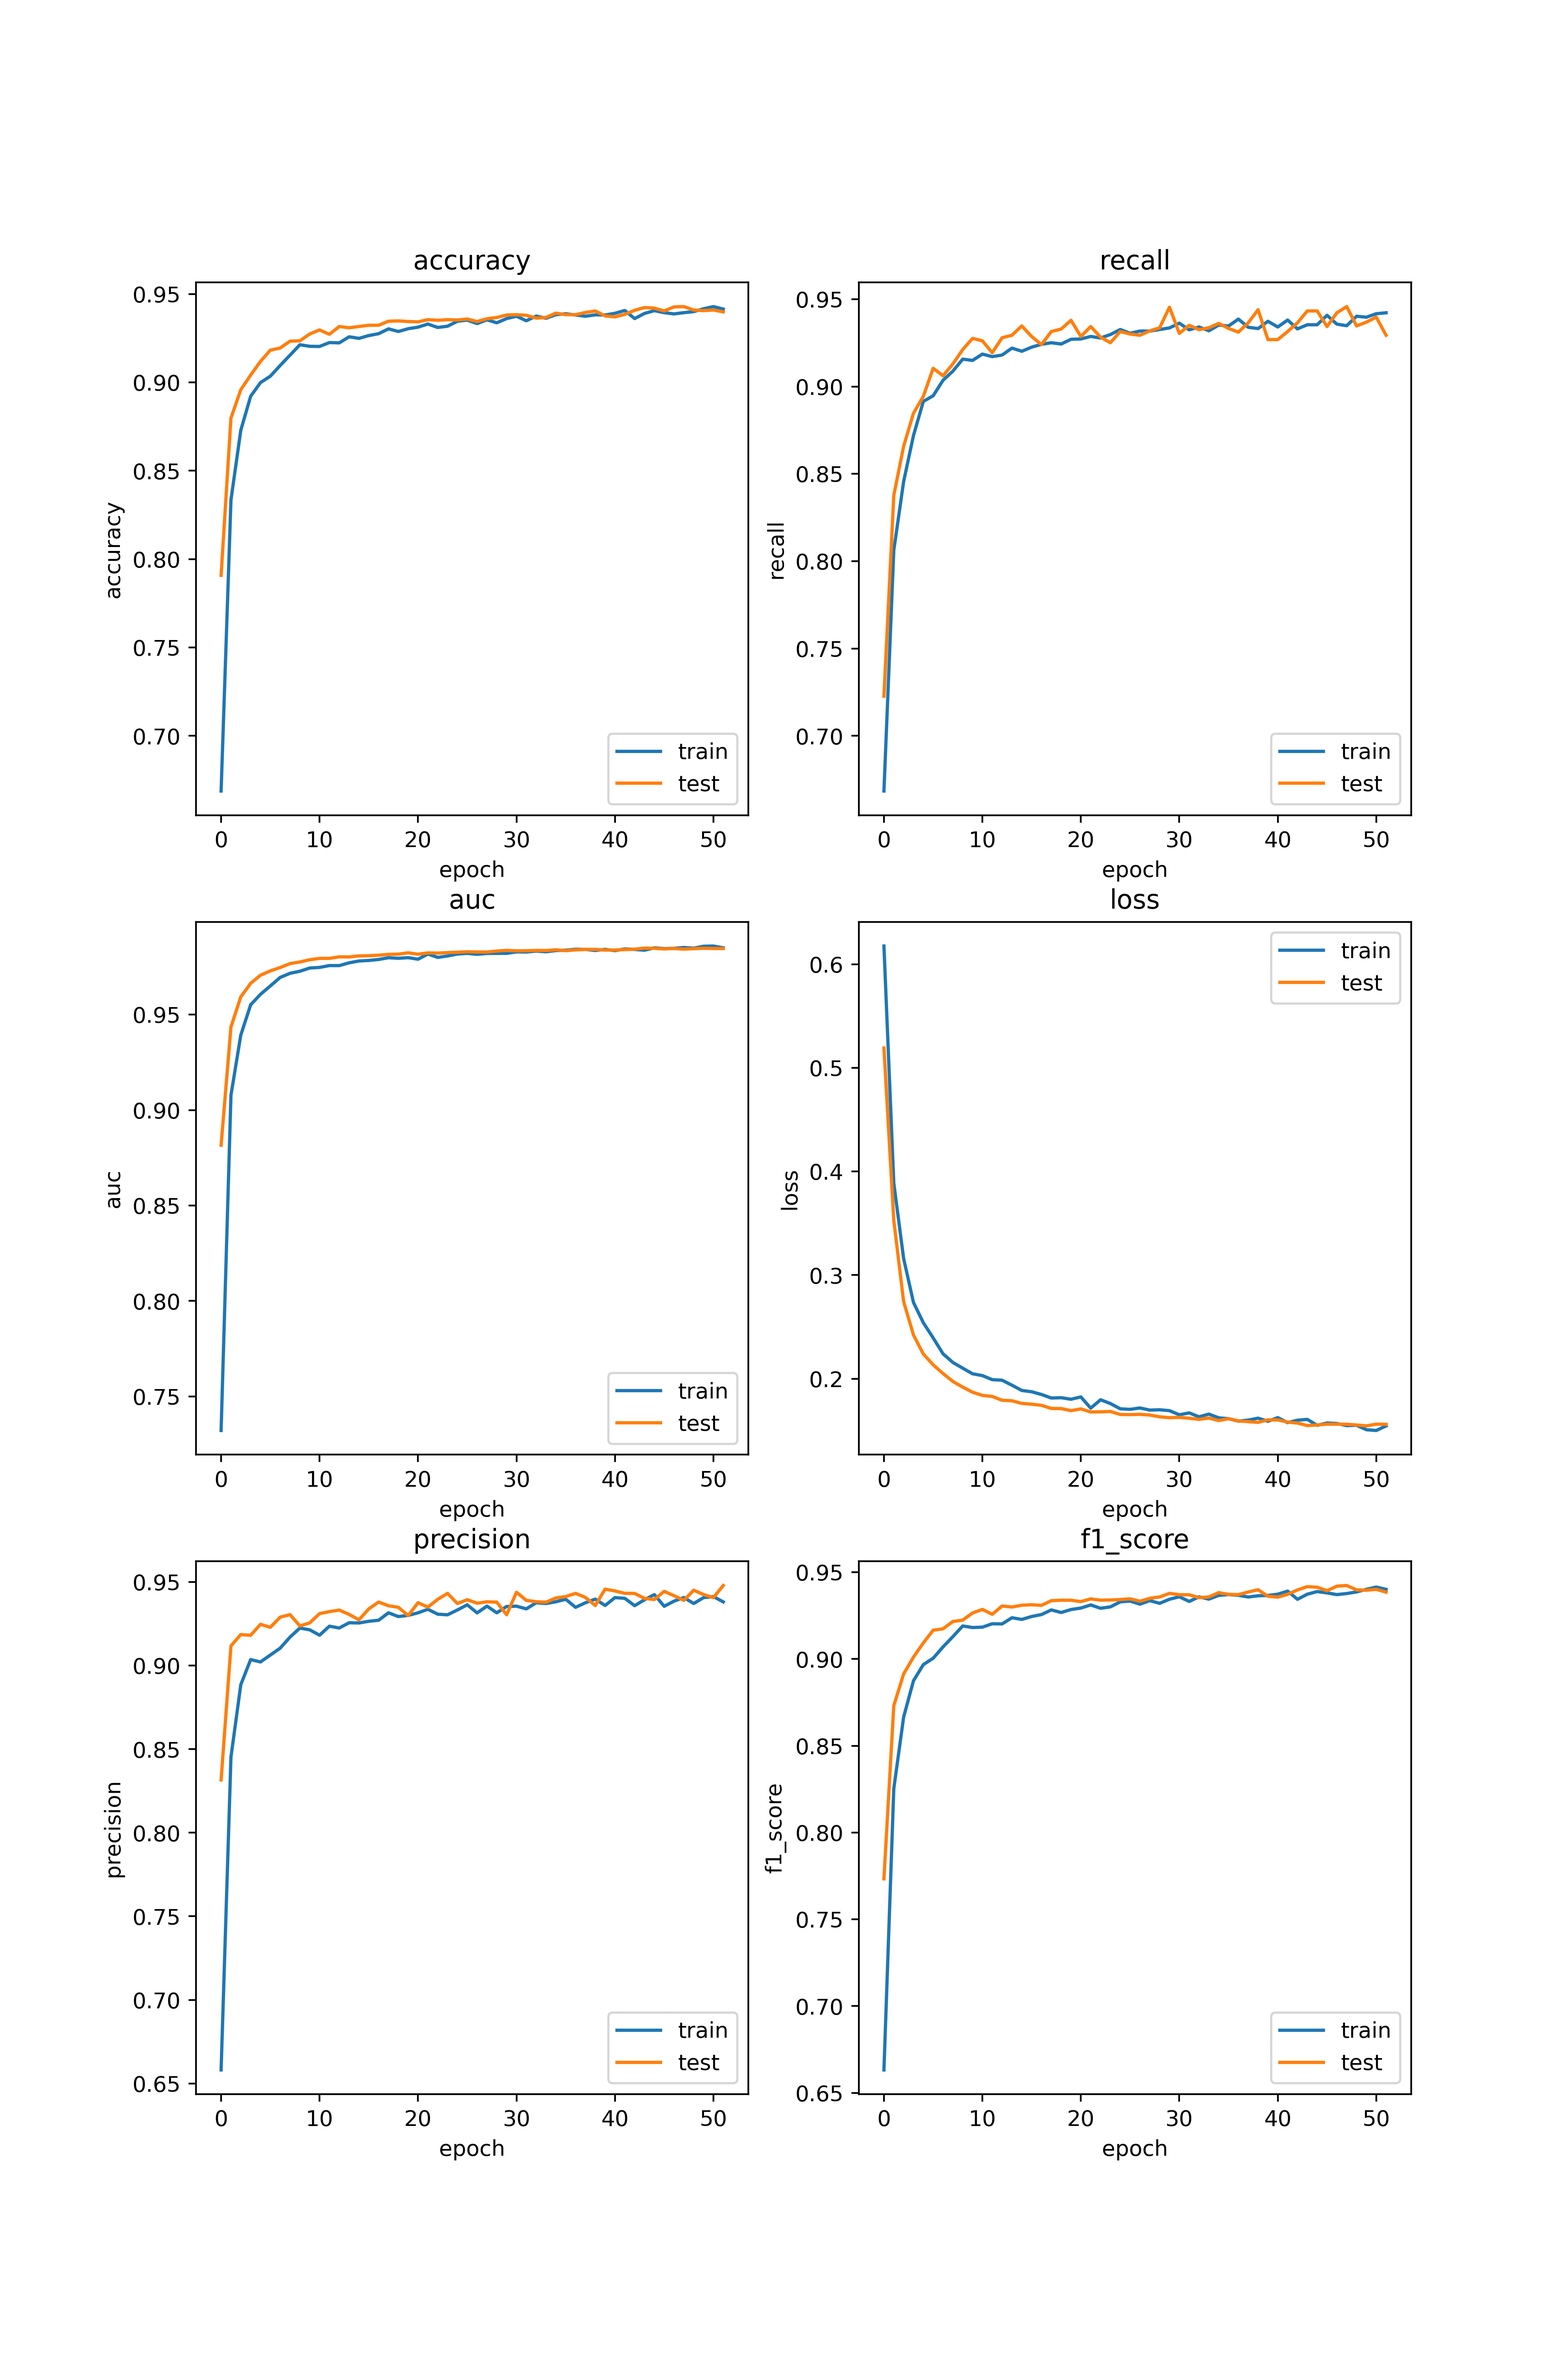
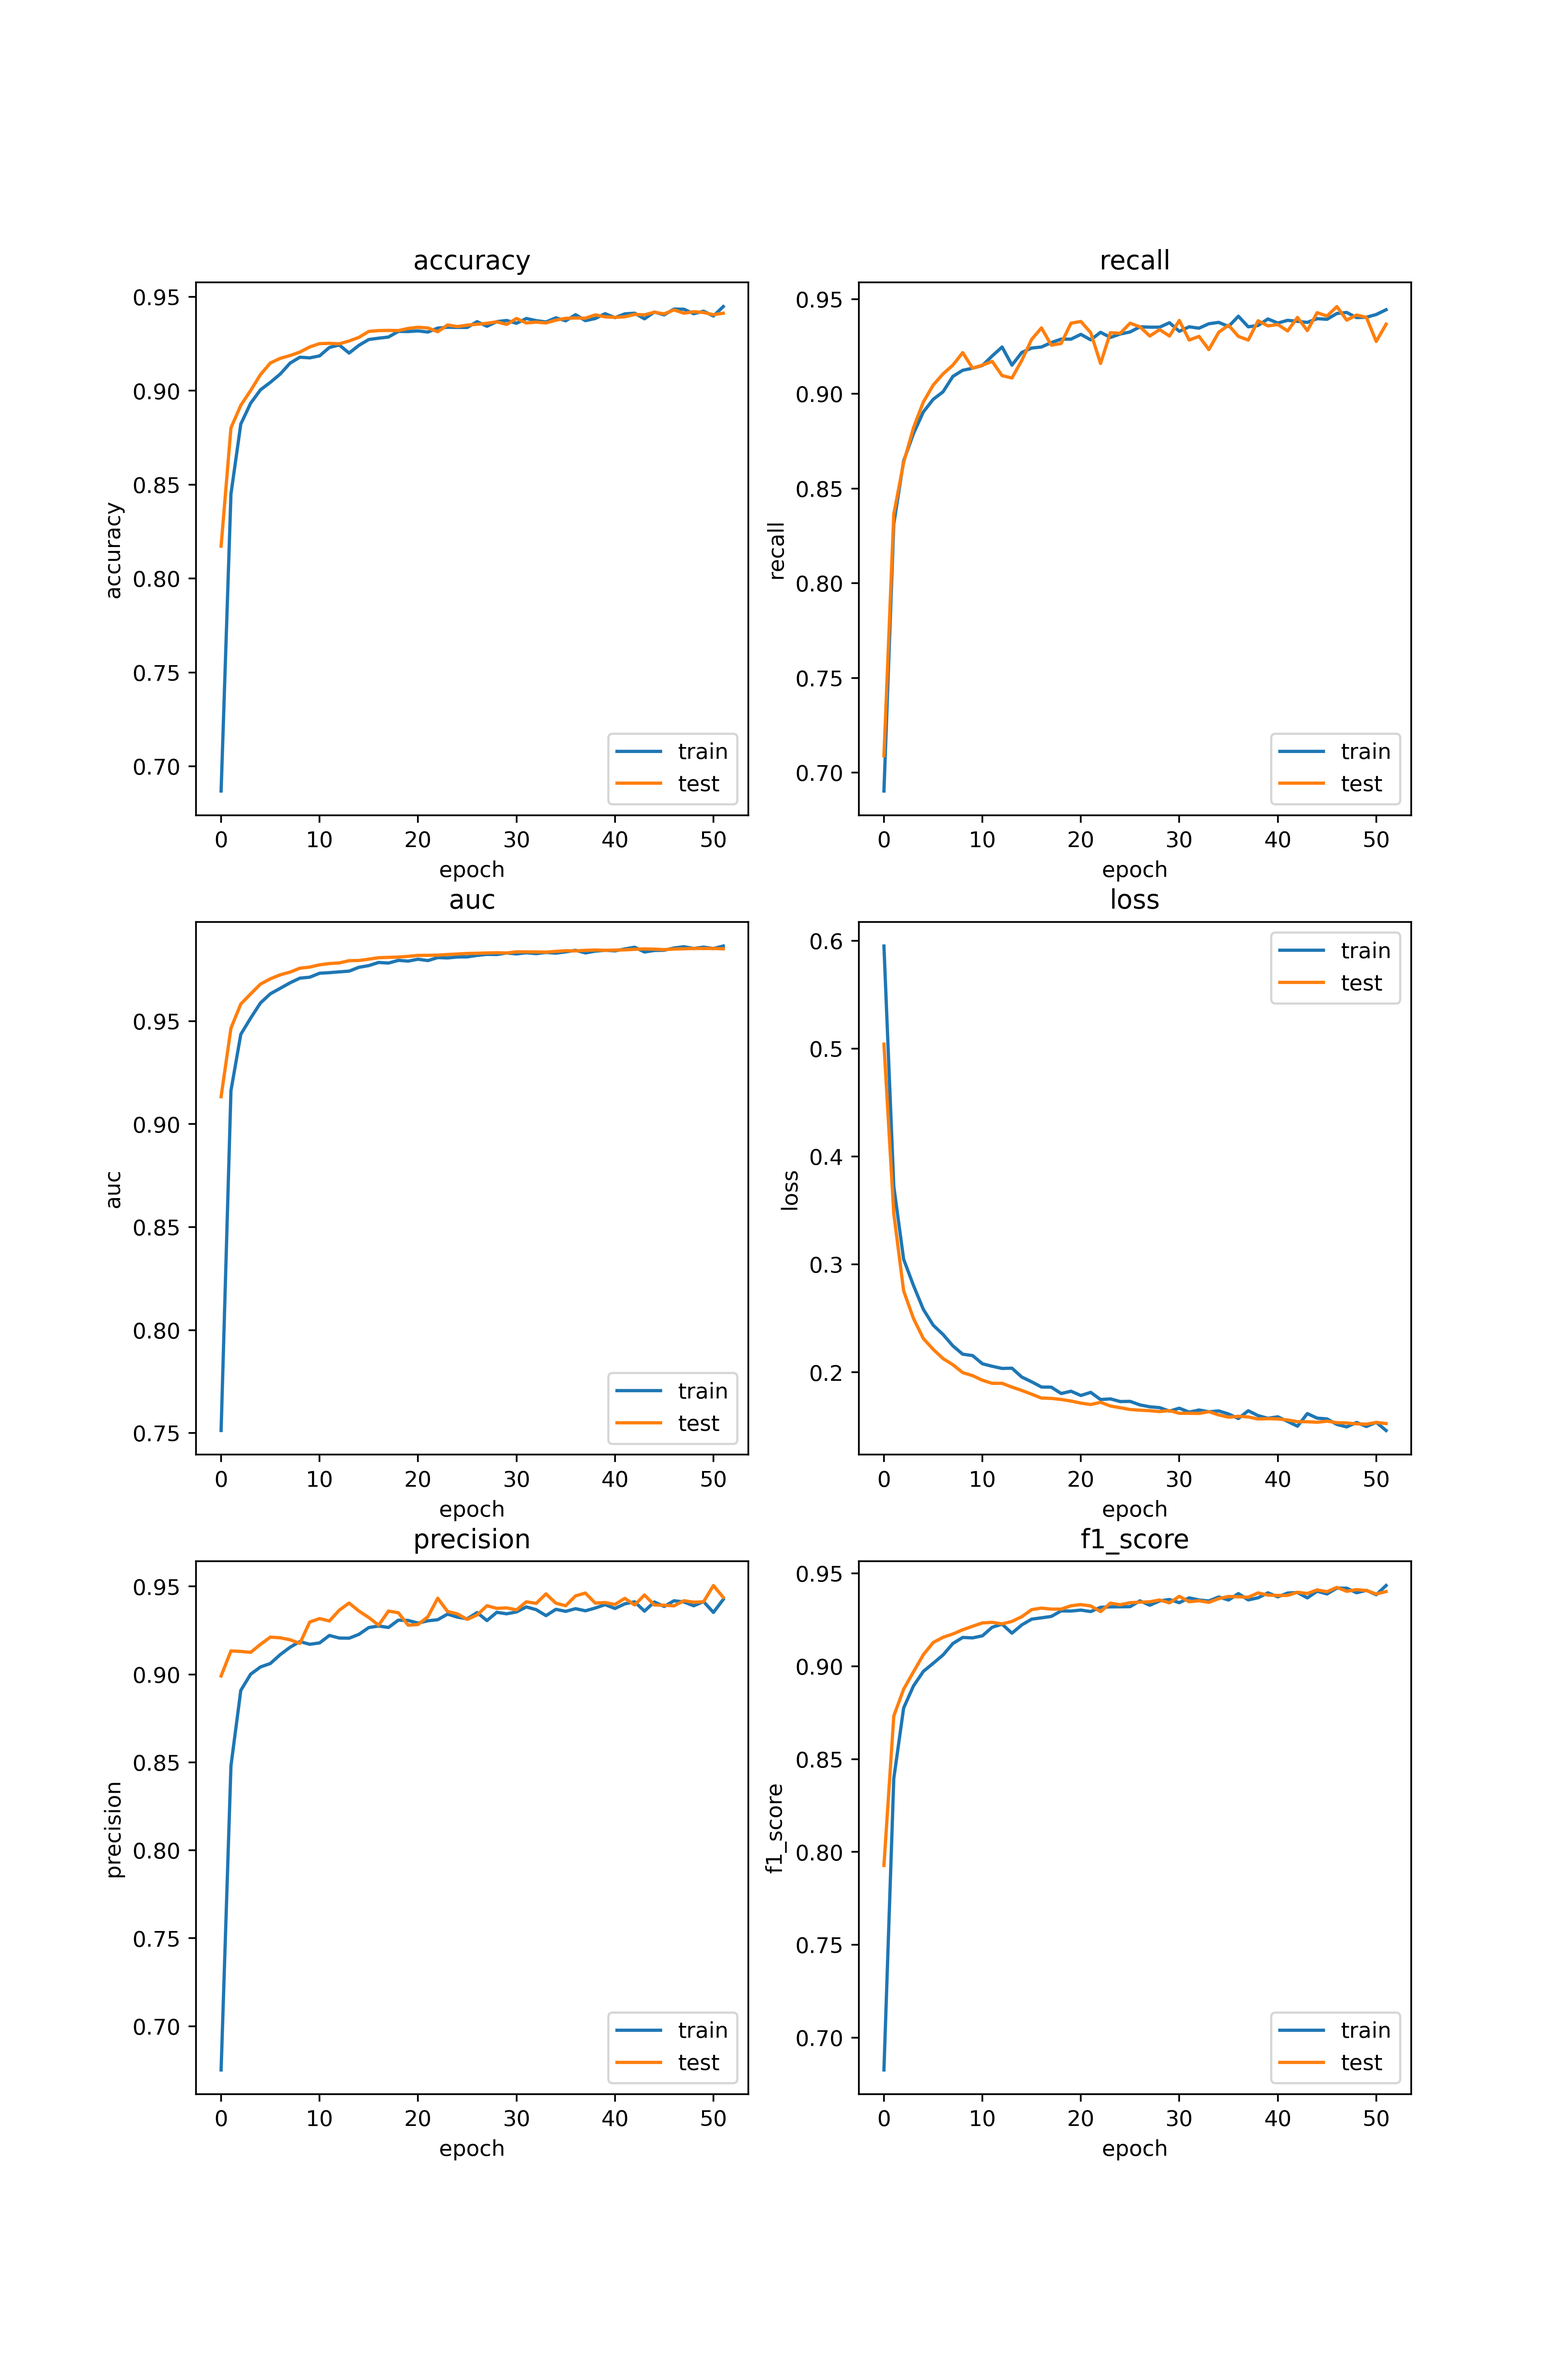
fix ANN model

diff --git a/ml_algs.py b/ml_algs.py
@@ -665,7 +665,6 @@ def neural_networks():
 
     X = X * 0.998 + 0.001
     x_train, x_test, y_train, y_test = train_test_split(X, Y, test_size=0.5, random_state=5)
-    x_test, x_val, y_test, y_val = train_test_split(x_test, y_test, test_size=0.5, random_state=5)
 
     metrics = [
         'accuracy',
@@ -702,7 +701,6 @@ def neural_networks():
                     if self.wait >= self.patience:
                         self.stopped_epoch = epoch
                         self.model.stop_training = True
-                        print("acc > v_acc")
 
         def on_train_end(self, logs=None):
             if self.stopped_epoch > 0:
@@ -756,8 +754,8 @@ def neural_networks():
 
     history = model.fit(
         x_train, y_train,
-        validation_data=(x_val, y_val),
-        epochs=100,
+        validation_data=(x_test, y_test),
+        epochs=150,
         batch_size=space['batch_size'],
         callbacks=tf_callbacks(),
         shuffle=space['shuffle'],
@@ -1996,6 +1994,7 @@ def SVM():
         random_state=space['random_state'],
         kernel=space['kernel']['type'],
         max_iter=100000,
+        probability=True
     )
 
     clf.fit(x_train, y_train)

diff --git a/main.py b/main.py
@@ -1,4 +1,4 @@
-state = 45
+state = 10
 
 # 0 - download phish_urls
 # 1 - search leg urls from popular domains
